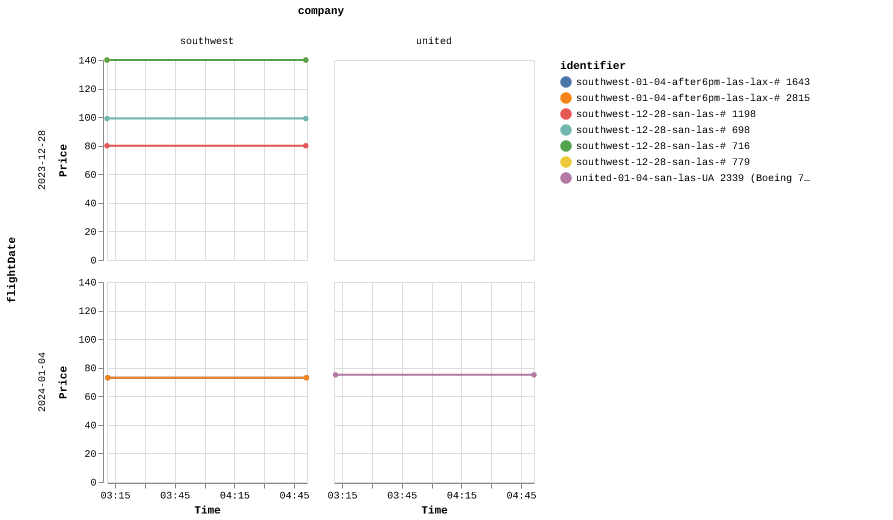
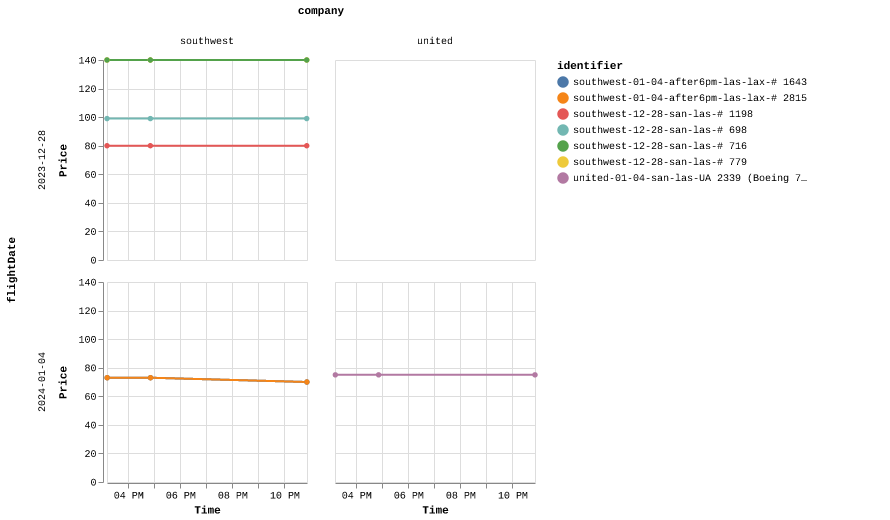
Latest scraping states: Tue Sep 12 22:52:01 UTC 2023

diff --git a/scrapes/states/southwest-01-04-after6pm-las-lax.md b/scrapes/states/southwest-01-04-after6pm-las-lax.md
@@ -8,7 +8,7 @@
     
     1h 15m
     
-    73 Dollars$73
+    70 Dollars$70
     
 * \# 2815 Opens flyout.
     
@@ -20,4 +20,4 @@
     
     1h 10m
     
-    73 Dollars$73
+    70 Dollars$70
